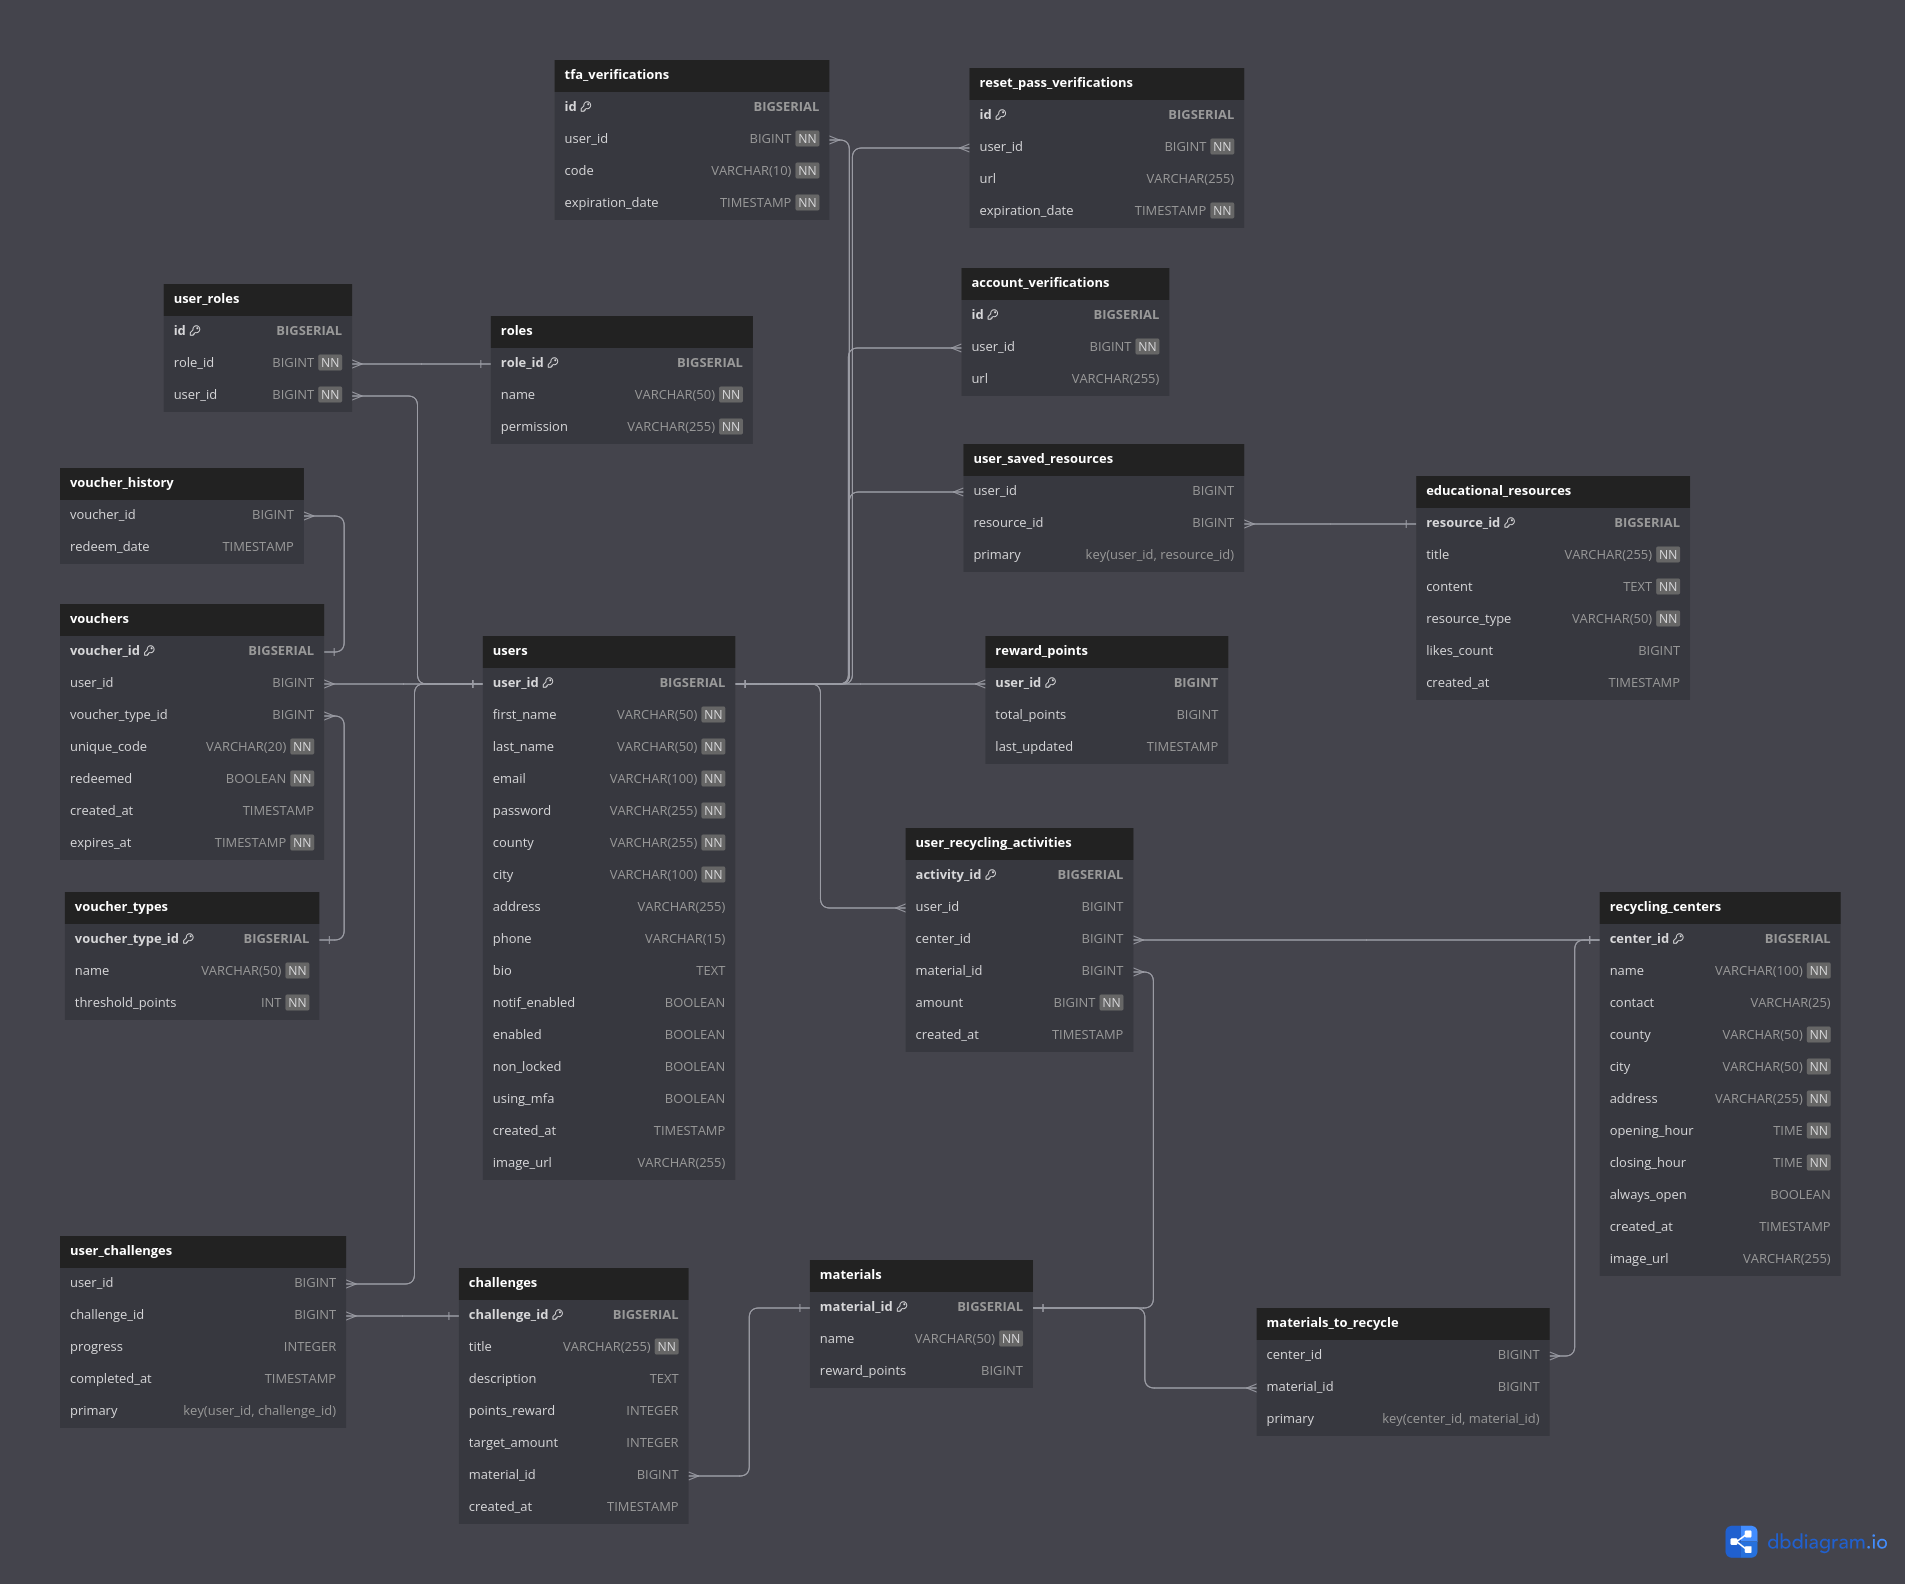
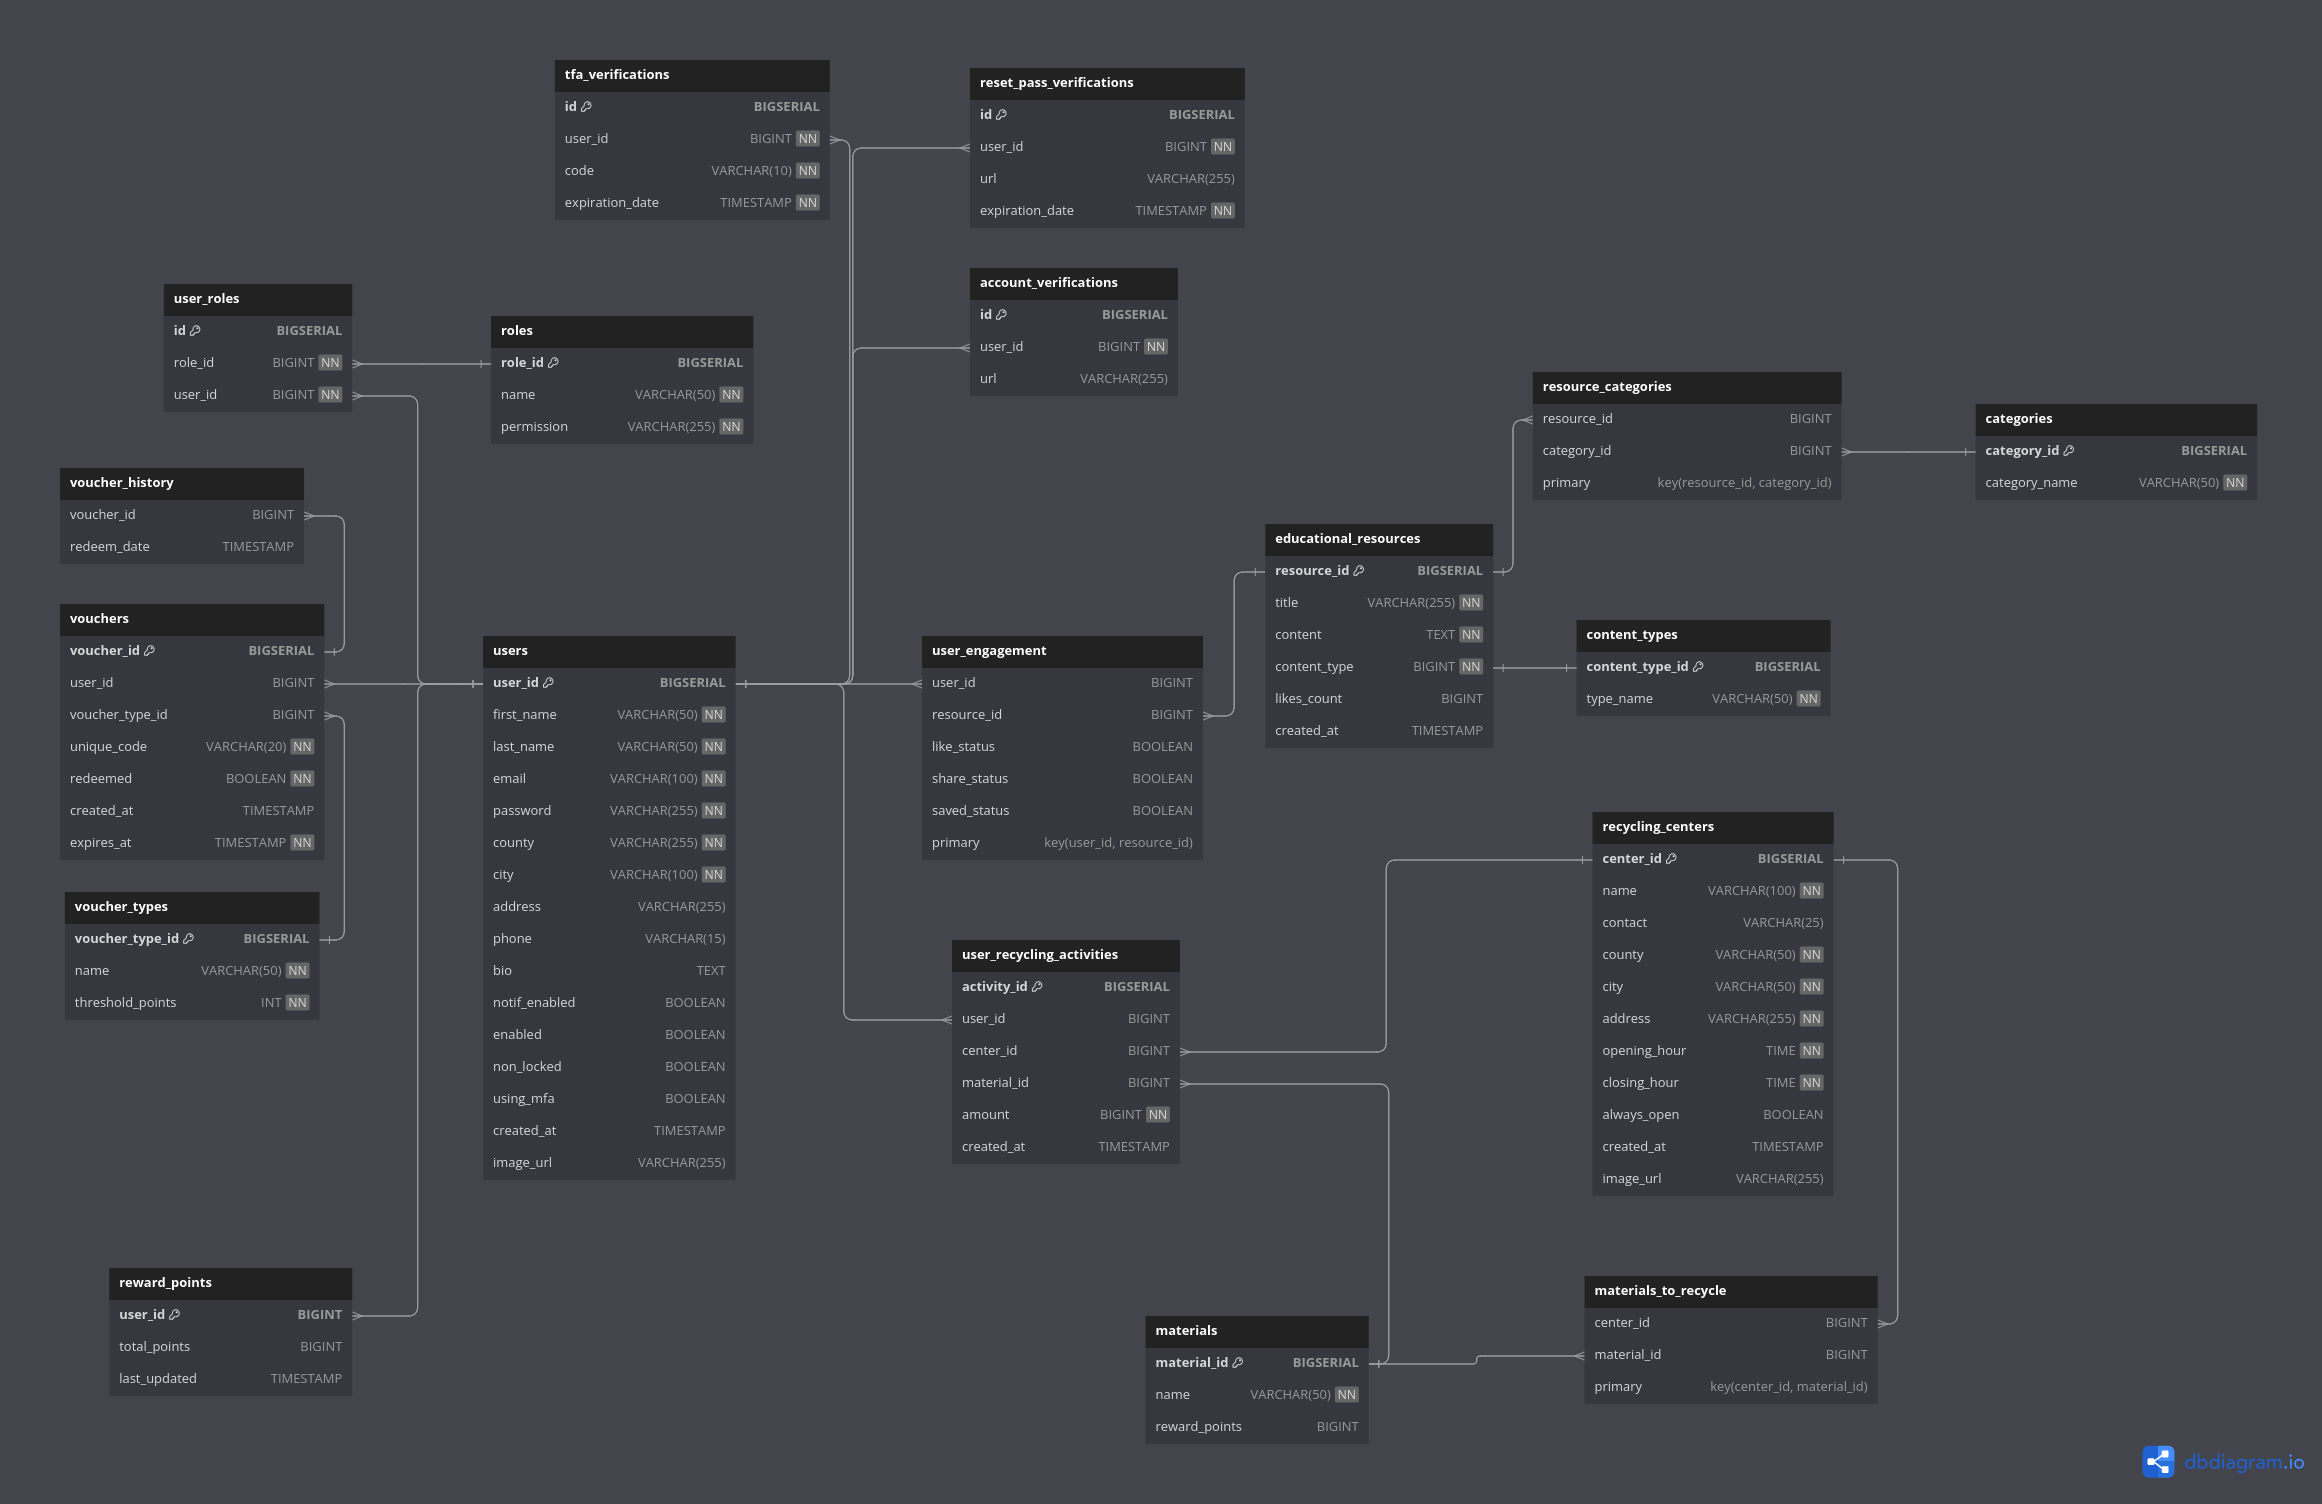
v0.7.15 - integrate educational resources feature in schema, update DB-SCHEMA.png accordingly;

diff --git a/src/main/java/io/rewardsapp/service/implementation/VoucherServiceImpl.java b/src/main/java/io/rewardsapp/service/implementation/VoucherServiceImpl.java
@@ -36,6 +36,8 @@ public class VoucherServiceImpl implements VoucherService {
     private final VoucherRepository voucherRepository;
     private final VoucherTypeRepository voucherTypeRepository;
 
+    private static final int VOUCHER_LIFETIME_IN_DAYS = 30;
+
     /**
      * Searches for vouchers based on specified criteria and returns a paginated result.
      *
@@ -92,7 +94,7 @@ public class VoucherServiceImpl implements VoucherService {
     @Transactional
     public Voucher getVoucher(Long userId, String voucherCode) {
         Voucher voucher = voucherRepository.findFirstByUniqueCode(voucherCode).orElseThrow(
-                () -> new ApiException("No voucher found by supplied unique code.")
+                () -> new ApiException(">>>>> No voucher found by supplied unique code.")
         );
 
         if (!userOwnsVoucher(userId, voucher)) {
@@ -178,6 +180,7 @@ public class VoucherServiceImpl implements VoucherService {
         return Voucher.builder()
                 .voucherType(type)
                 .user(user)
+                .expiresAt(LocalDateTime.now().plusDays(VOUCHER_LIFETIME_IN_DAYS))
                 .uniqueCode(generateValidUniqueCode())
                 .build();
     }

diff --git a/src/main/java/io/rewardsapp/resource/VoucherResource.java b/src/main/java/io/rewardsapp/resource/VoucherResource.java
@@ -117,7 +117,7 @@ public class VoucherResource {
      * @param voucherCode       Code of the voucher to redeem.
      * @return ResponseEntity with the user and redeemed voucher details.
      */
-    @PostMapping("/redeem/{code}/")
+    @PostMapping("/redeem/{code}")
     public ResponseEntity<HttpResponse> redeemVoucher(
             @AuthenticationPrincipal UserDTO authenticatedUser,
             @PathVariable("code") String voucherCode
